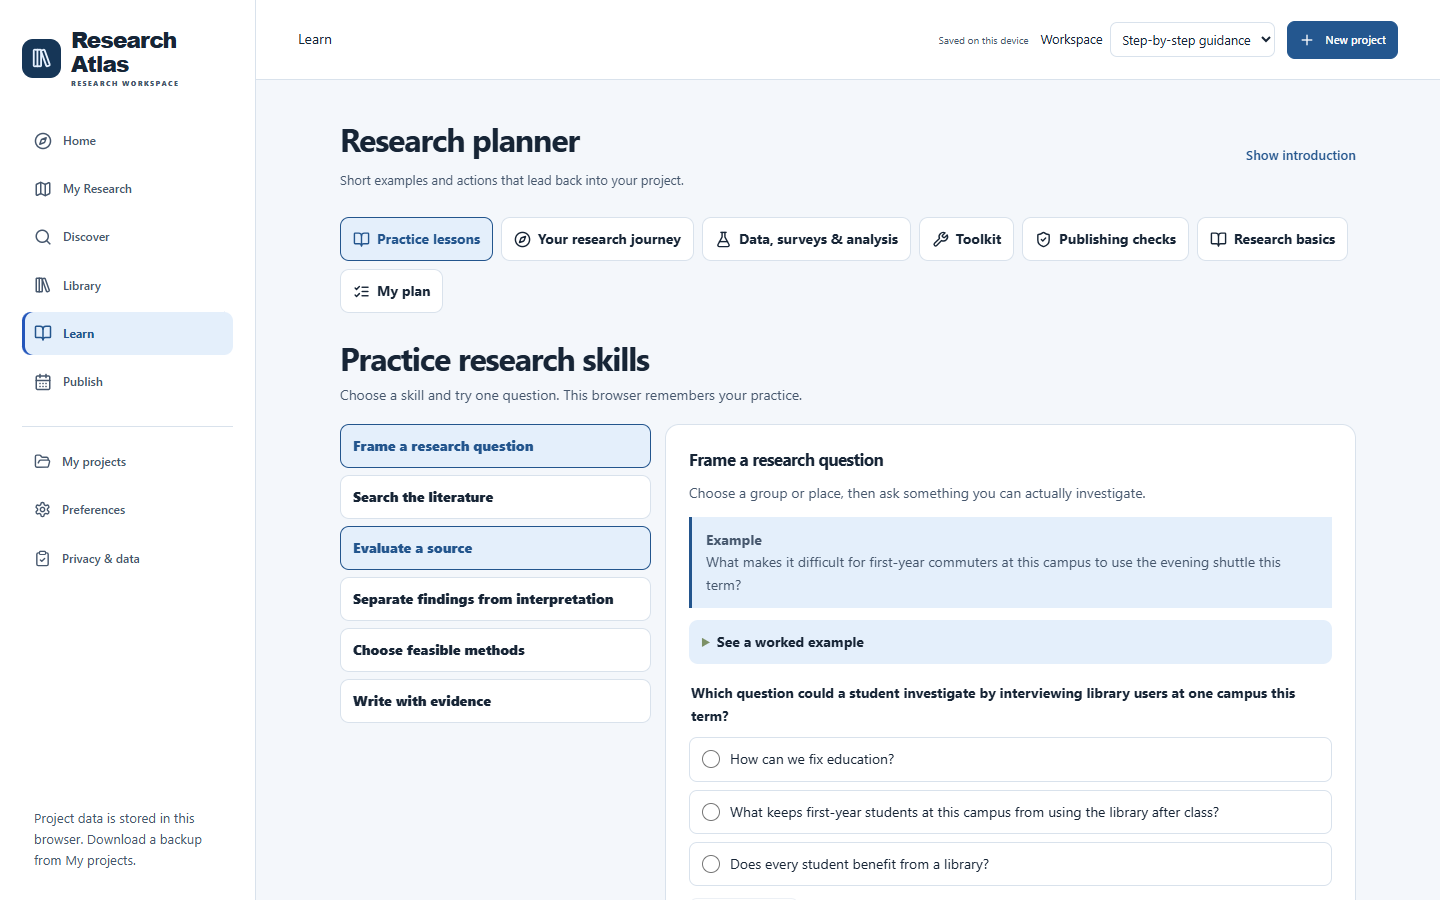
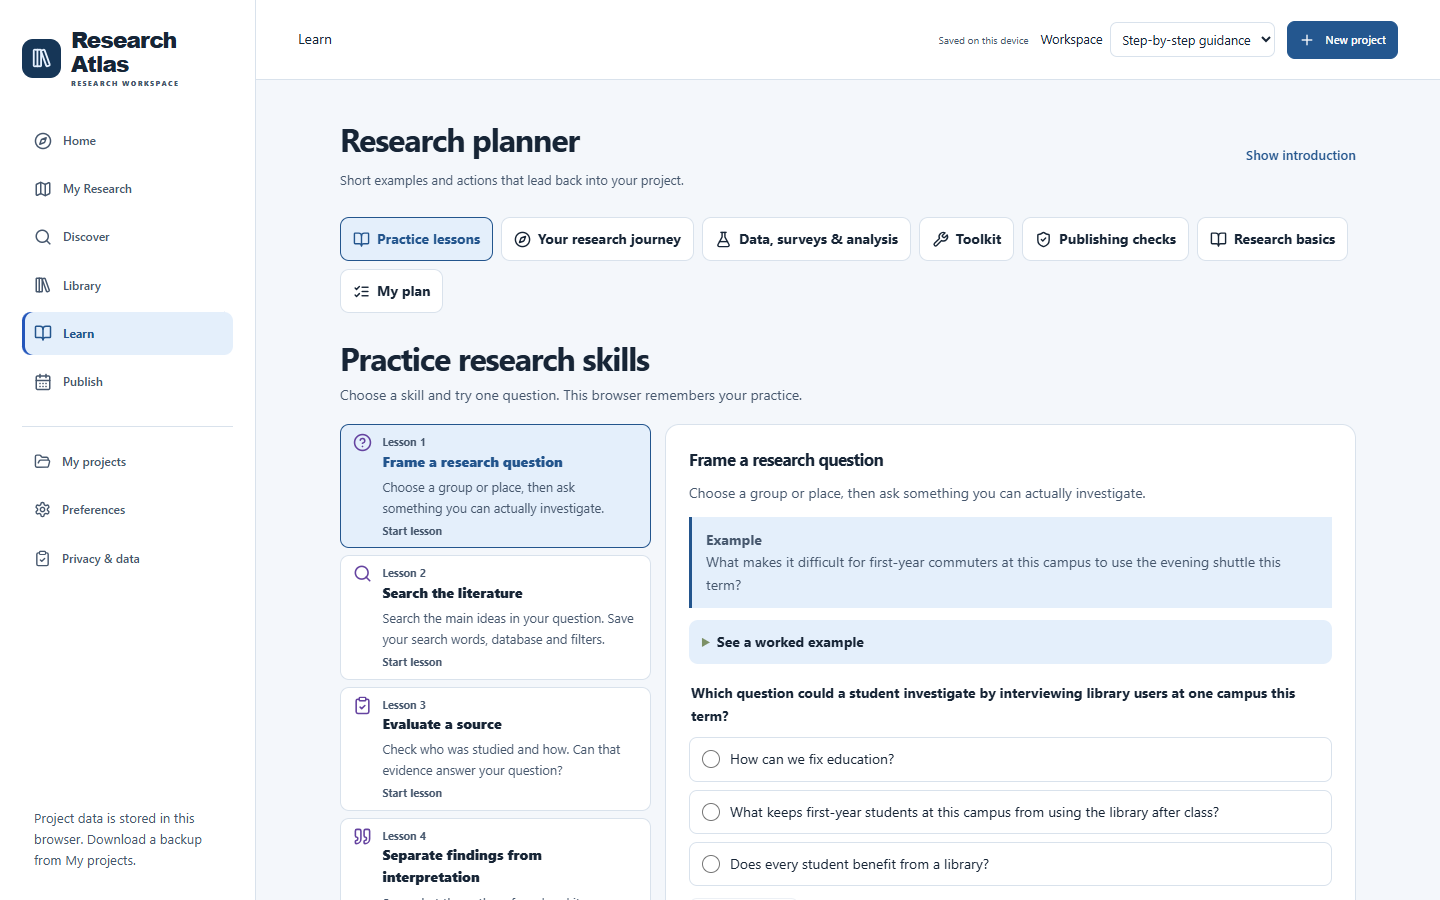
Verify responsive guidance, refine overlay interactions and document the 0.13 release candidate

Changed region(s): [[0.2188, 0.4667, 0.4688, 0.7467], [0.25, 0.7778, 0.4375, 0.9956]]

diff --git a/research-atlas/src/components/workspace/Atlas.tsx b/research-atlas/src/components/workspace/Atlas.tsx
@@ -93,6 +93,7 @@ export default function Atlas() {
   const [active, setActive] = useState('');
   const [ready, setReady] = useState(false);
   const [saveState, setSaveState] = useState('Opening local workspace…');
+  const [reviewReload, setReviewReload] = useState(false);
   const [storageConflict, setStorageConflict] = useState(false);
   const [storageOperation, setStorageOperation] = useState(false);
   const [recoveryRaw, setRecoveryRaw] = useState('');
@@ -376,6 +377,10 @@ export default function Atlas() {
 
   function removeProject(item: Project) {
     setProjectAction(undefined);
+    if (writeBlocked.current || storageOperation) {
+      setNotice('Resolve the workspace conflict before deleting a project.');
+      return;
+    }
     markDirty();
     saveDeskSourceFilters(item.id, defaultDeskSourceFilters);
     const remaining = projects.filter(record => record.id !== item.id);
@@ -415,11 +420,15 @@ export default function Atlas() {
         <button className="button small" data-tour="new-project" onClick={openNewProject} disabled={!ready}><Plus size={16} />New project</button>
       </header>
       <main id="main" ref={main} tabIndex={-1} aria-busy={storageOperation} data-layout={['guide', 'primer', 'terms', 'privacy', 'support'].includes(view) ? 'reading' : ['paper-search', 'library', 'screen', 'extract', 'writing', 'discover'].includes(view) ? 'research' : 'working'} data-interface={preferences.interfaceMode ?? 'guided'}>
-        {(storageConflict || recoveryRaw) && <section className="error" role="alert"><h2>{storageConflict ? 'Another tab saved changes' : 'Some stored records need recovery'}</h2><p>Saving is paused so this tab cannot overwrite stored work. Download the copy in this tab before loading the latest saved workspace.</p><div className="button-row"><button className="button secondary" onClick={backup}>Download this tab’s backup</button>{recoveryRaw && <button className="button secondary" onClick={() => download('research-atlas-recovery-raw.json', recoveryRaw, 'application/json')}>Download original stored data</button>}<button className="button secondary" disabled={storageOperation} onClick={() => window.location.reload()}>Reload latest saved workspace</button></div></section>}
+        {(storageConflict || recoveryRaw) && <section className="error" role="alert"><h2>{storageConflict ? 'Another tab saved changes' : 'Some stored records need recovery'}</h2><p>Saving is paused so this tab cannot overwrite stored work. Download the copy in this tab before loading the latest saved workspace.</p><div className="button-row"><button className="button secondary" onClick={backup}>Download this tab’s backup</button>{recoveryRaw && <button className="button secondary" onClick={() => download('research-atlas-recovery-raw.json', recoveryRaw, 'application/json')}>Download original stored data</button>}<button className="button secondary" disabled={storageOperation} onClick={() => setReviewReload(true)}>Reload latest saved workspace</button></div></section>}
         {ready && projects.length > 0 && (saveState === 'Local storage unavailable' || saveState.startsWith('Could not save')) && <section className="error" role="alert"><p>Changes are still available in this tab. Download a recovery copy before reloading.</p><button type="button" className="button secondary" onClick={backup}>Download recovery backup</button></section>}
         {ready && preferences.interfaceMode !== 'expert' && <ContextualGuidance key={view} openLibrary={()=>go('library')}/>}
         {notice && <div className="notice" role="status">{notice}<button className="icon-button" onClick={() => setNotice('')} aria-label="Dismiss notice"><X size={16} /></button></div>}
         {ready && !storageOperation && !storageConflict && !recoveryRaw && <WorkspaceOrientation key={preferences.interfaceMode} view={view} guided={preferences.interfaceMode !== 'expert'} existing={projects.length > 0 || loadFailed.current} openMenu={setMobile} startProject={openNewProject} explore={()=>go('primer')} papers={()=>go('paper-search')} />}
+        {reviewReload && (storageConflict || recoveryRaw) && <AtlasDialog title="Reload the saved workspace?" onClose={()=>setReviewReload(false)}>
+          <p>Reloading opens the most recently saved projects. Download a backup first to keep any edits visible only in this tab.</p>
+          <div className="button-row"><button data-initial-focus className="button secondary" onClick={()=>setReviewReload(false)}>Keep this tab open</button><button className="button secondary" onClick={backup}>Download a backup</button><button className="button" onClick={()=>window.location.reload()}>Reload saved projects</button></div>
+        </AtlasDialog>}
         {projectAction && <AtlasDialog title={projectAction.kind==='remove' ? 'Delete project?' : 'Export project'} onClose={()=>setProjectAction(undefined)}>
           <h3>{projectAction.project.title}</h3>{projectAction.kind==='remove' ? <><p>Deleting removes this project from this browser. Keep a backup first if you need a copy.</p><div className="button-row"><button data-initial-focus className="button secondary" onClick={()=>setProjectAction(undefined)}>Keep project</button><button className="button danger" onClick={()=>removeProject(projectAction.project)}>Delete project</button></div></> : <><p>Choose the planning document or source evidence table to download.</p><div className="button-row"><button className="button secondary" onClick={()=>download('research-protocol.md',protocolMarkdown(projectAction.project),'text/markdown')}>Export protocol</button><button className="button secondary" onClick={()=>download('evidence-matrix.csv',matrixCsv(projectAction.project),'text/csv')}>Export evidence</button></div></>}
         </AtlasDialog>}

diff --git a/research-atlas/src/components/discovery/DiscoverPapers.tsx b/research-atlas/src/components/discovery/DiscoverPapers.tsx
@@ -237,6 +237,7 @@ export function DiscoverPapers({ project, update, notify, initialQuery, initialR
 
 
         {requestKind === 'search' && <button type="button" className="text-button" onClick={cancelRequest}>Cancel search</button>}
+        {busy && !results && <div className="loading-paper" role="status"><strong>Retrieving papers from {provider}…</strong><i aria-hidden="true"/><i aria-hidden="true"/></div>}
         {!results && pageNotice && <p role="status">{pageNotice}</p>}
         <p className="muted">The search sends your keywords and filters to {provider}. Leave out confidential project or participant details.{provider === 'Crossref' && ' Crossref does not provide a reliable reading-access filter here; check the publisher or choose another source for open copies.'}</p>
         <External href={searchWebsiteUrl(query)}>Search on Crossref</External>
@@ -253,7 +254,7 @@ export function DiscoverPapers({ project, update, notify, initialQuery, initialR
             <span>{provider} · {openAlexSearch.pageSize} per page · up to 100 retrieved</span>
           </div>
           <div className="two-col"><label className="field"><span>Document type</span><select aria-label="Document type" value={documentType ?? ''} disabled={busy || provider === 'Crossref'} onChange={event => setDocumentType(event.target.value ? event.target.value as SearchOptions['documentType'] : undefined)}>{searchFilterChoices[provider].documents.map(([value, label]) => <option key={value} value={value}>{label}</option>)}</select></label><label className="field"><span>Source collection</span><select aria-label="Source collection" value={sourceType ?? ''} disabled={busy || provider === 'Crossref'} onChange={event => setSourceType(event.target.value ? event.target.value as SearchOptions['sourceType'] : undefined)}>{searchFilterChoices[provider].sources.map(([value, label]) => <option key={value} value={value}>{label}</option>)}</select></label></div><p className="muted">{searchFilterChoices[provider].note}</p><button type="button" className="button" onClick={()=>setTool(undefined)}>Done</button></>}
-          
+
           {tool==='databases' && <><p>Open this query on another website. These are direct search links, not imported results. Scholar and ResearchGate manage their own access and may ask you to sign in or complete a browser check. Import a downloaded RIS or BibTeX reference through Library to use it in your project.</p><div className="button-row">{scholarlySearchLinks(query).map(link => <External key={link.name} href={link.url}>{`Search ${link.name}`}</External>)}</div><a href="#library">Import references into your Library</a></>}
         </AtlasDialog>}
       </section>

diff --git a/research-atlas/tests/e2e/orientation-overlays.spec.ts b/research-atlas/tests/e2e/orientation-overlays.spec.ts
@@ -1,6 +1,32 @@
 import { expect, test } from '@playwright/test';
 
 test.use({storageState:{cookies:[],origins:[]}});
+test('each tour stop can be skipped and replayed without changing project data', async ({page})=>{
+  await page.goto('/#preferences');
+  for(let index=0;index<7;index++){
+    await page.getByRole('button',{name:'Replay workspace tour'}).click();
+    const coach=page.locator('.tour-coach');
+    for(let n=0;n<index;n++) await coach.getByRole('button',{name:'Next',exact:true}).click();
+    await coach.getByRole('button',{name:'Skip tour'}).press('Enter');
+    await expect(page.locator('.atlas-tour')).toHaveCount(0);
+  }
+  await page.goto('/#projects');
+  await expect(page.getByRole('heading',{name:'My projects',exact:true})).toBeVisible();
+  await expect(page.getByRole('button',{name:'Delete project',exact:true})).toHaveCount(0);
+});
+test('project dialog preserves an unfinished draft and its opener',async({page})=>{
+  await page.goto('/#projects');
+  const start=page.getByRole('button',{name:'New project',exact:true});
+  await start.click();
+  const title=page.getByRole('dialog').getByLabel('Working title');
+  await title.fill('Synthetic sleep research');
+  await page.keyboard.press('Escape');
+  await expect(start).toBeFocused();
+  await start.click();
+  await expect(title).toHaveValue('Synthetic sleep research');
+  await page.getByRole('button',{name:'Close new project'}).click();
+  await expect(page.getByRole('button',{name:'Delete project',exact:true})).toHaveCount(0);
+});
 test('a new visitor can skip, revisit, or explore without creating a project', async ({page})=>{
   await page.goto('/');
   const welcome=page.getByRole('dialog',{name:'Welcome to Research Atlas'});

diff --git a/research-atlas/src/app/interface.css b/research-atlas/src/app/interface.css
@@ -79,4 +79,13 @@ body:has(dialog[open]){overflow:hidden}
 .search-tool-anchor{position:relative}
 .help-popover{position:absolute;z-index:12;background:var(--surface);color:var(--ink);border:1px solid var(--line);box-shadow:var(--overlay-shadow);padding:1rem;border-radius:.65rem;width:min(100%,28rem);max-height:50dvh;overflow-y:auto}
 .help-popover header{display:flex;align-items:center;justify-content:space-between}
+.loading-paper{display:grid;gap:.5rem;margin:1rem 0;background:var(--surface-soft);padding:1rem;border-radius:.5rem;font-size:.85rem}
+.loading-paper i{height:.4rem;width:80%;background:var(--line);border-radius:.25rem}
+.loading-paper i:last-child{width:55%}
+.lesson-contrast{display:grid;grid-template-columns:repeat(auto-fit,minmax(min(100%,12rem),1fr));gap:.75rem}
+.lesson-contrast div{padding:.8rem;background:var(--surface-soft);border-inline-start:3px solid var(--evaluate)}
+.lesson-contrast div+div{border-color:var(--learn)}
+.lesson-contrast dt,.venue-facts dt{font-weight:700}.lesson-contrast dd,.venue-facts dd{margin:.25rem 0 .65rem;color:var(--muted)}
+.journey-shell .desk-source-list button[aria-pressed=true]{border-inline-start:4px solid var(--evaluate)}
+@media(max-width:650px){.journey-shell .search-panel .search-settings{grid-template-columns:minmax(0,1fr) minmax(0,1fr)}.journey-shell .search-settings select{padding-inline:.35rem}}
 @media(max-width:500px){.help-popover{position:relative}}

diff --git a/research-atlas/src/components/learning/PracticeLessonExercise.tsx b/research-atlas/src/components/learning/PracticeLessonExercise.tsx
@@ -32,6 +32,14 @@ export function PracticeLessonExercise({ lesson, progress, onProgress, openSecti
     <p className="practice-scenario"><strong>Example</strong> {lesson.examples[0].scenario}</p>
     <details className="planner-example">
       <summary>See a worked example</summary>
+      {lesson.id === 'question' && <dl className="lesson-contrast">
+        <div><dt>Broad interest</dt><dd>Sleep and student life</dd></div>
+        <div><dt>Focused question</dt><dd>Among first-year commuters on one campus, how does reported sleep duration vary between class days and weekends?</dd></div>
+      </dl>}
+      {lesson.id === 'interpret' && <dl className="lesson-contrast">
+        <div><dt>Source finding · fictional example</dt><dd>Six of twelve interviewees mentioned a late commute. Locator: Table 2.</dd></div>
+        <div><dt>Personal interpretation</dt><dd>Evening transport may affect access to study space. Interview students on other routes to explore that possibility.</dd></div>
+      </dl>}
       <div className="practice-examples">
         {lesson.examples.map((example, index) => <div key={example.discipline}>
           <h4>{example.discipline}</h4>

diff --git a/research-atlas/docs/0.13/RELEASE.md b/research-atlas/docs/0.13/RELEASE.md
@@ -15,7 +15,21 @@ The working branch starts at b0e1cef, including the Android launcher fix. The pu
 ## Implementation checklist
 
 - [x] Capture the public baseline and measure the original bundle.
-- [ ] Implement and exercise visual foundations and onboarding.
-- [ ] Redesign Discover, beginner exploration, Learn and connected workspaces.
+- [x] Implement and exercise visual foundations and onboarding.
+- [x] Redesign Discover, beginner exploration, Learn and connected workspaces.
 - [ ] Complete responsive, accessibility, recovery, user-journey and device checks.
 - [ ] Record the release checks, comparison screenshots and deployment identity.
+
+## Results
+
+A synthetic undergraduate project investigated sleep quality and academic performance. A scripted Brave session took 61 seconds on this laptop. It used a fictional OpenAlex record to check reproducible source screening, locators, interpretation, citations and DOCX contents. Europe PMC returned two pages of 20 distinct real results. The user flow saved a real source and recorded a decision. Crossref also returned real titles. An encrypted backup opened for verification and restored the complete project in a fresh profile. Starting a project from beginner exploration retains its sources. Discover also offers a direct path to create a project from a paper.
+
+The [desktop and mobile baseline](before/) and [redesigned interface](after/) show the implemented application. [Desktop spotlight](after/spotlight-1440.png) · [Mobile spotlight](after/spotlight-390.png) · [Mobile filters](after/filters-390.png) · [New project](after/new-project-1440.png)
+
+Local production measurements used the same Brave executable, a loopback server, five fresh profiles per build and blocked service workers. The [raw results](performance-and-layout.json) include cold Discover readiness and compressed asset sizes. The measurements describe this laptop. They do not predict load times on a mobile connection.
+
+All seven spotlight targets and the filter drawer were exercised at 320, 360, 390, 768, 1280 and 1440 CSS pixels. These checks detected no horizontal overflow or browser errors. No participants were recruited. The [short usability script](USABILITY.md) records assistance, time and navigation errors for future sessions.
+
+The website delivers this interface to the existing Android wrapper. ADB listed no physical phone during the 0.13.0 check. The verified OnePlus installation and native download/restore results belong to 0.12.0. Android signing and origin association are separate owner decisions. Scholarly providers can still rate-limit or time out; existing retry and recovery behavior is preserved.
+
+The authoritative check and deployment records are linked from [the release pull request](https://github.com/rishadamin001/research-tracker-app/pull/12). After publication, the public page exposes its full Git commit in the `atlas-build-commit` metadata.

diff --git a/research-atlas/ARCHITECTURE.md b/research-atlas/ARCHITECTURE.md
@@ -1,5 +1,15 @@
 # Architecture
 
+## Interface and onboarding in 0.13
+
+The workspace shell owns navigation. The orientation controller highlights semantic `data-tour` targets and follows layout changes. The spotlight is nonmodal, so a learner can operate the highlighted control. Dialogs use the browser's modal behavior for actions that need a decision. Local tutorial keys are independent of project storage, encrypted backups and practice progress.
+
+Shared tokens, touch sizes and reduced-motion rules live in `src/app/interface.css`. Discover owns the existing provider and pagination state. Its dialogs present filters, external links, paper details and search activity. Search tips open in a nonmodal help panel.
+
+Using React and Lucide already shipped with the application keeps the tour offline and introduces no additional runtime license, remote script or stylesheet. Driver.js offers configurable popovers and targets, but Atlas would still need its own project-state and mobile-navigation integration. [Driver configuration](https://driverjs.com/docs/configuration) · [Native dialogs](https://developer.mozilla.org/en-US/docs/Web/HTML/Reference/Elements/dialog)
+
+The filter chips take inspiration from Linear's visible search criteria. Keeping paper metadata, notes and citations distinct follows a familiar reference-manager workflow. [Linear filters](https://linear.app/docs/filters) · [Zotero basics](https://www.zotero.org/support/quick_start_guide)
+
 ## Source layout
 
 The active web application, optional gateway and Android wrapper all live in the repository's `research-atlas/` directory. The root `client/` and `server/` directories contain the earlier app. The [Android wrapper](android/README.md) launches the existing website using the device's browser. Study data belongs to the browser profile and origin. The [hosting and accounts proposal](docs/HOSTING-AND-ACCOUNTS.md) describes future options.

diff --git a/research-atlas/CHANGELOG.md b/research-atlas/CHANGELOG.md
@@ -1,5 +1,9 @@
 # Changelog
 
+## 0.13.0
+
+The optional welcome and seven-stop spotlight highlight real workspace controls. Discover has visible filters and chips, search tips, paper previews, external database links and a search activity panel. Beginner exploration explains paper metadata. The six learning exercises retain their saved progress. The dashboard connects six stages of research, and project deletion and backup imports use explicit confirmation.
+
 ## 0.12.0
 
 Beginners can pick an example, explore papers immediately, or take a nine-stop tour that remembers their place on this device. All six practice lessons keep their existing progress and offer more detail on demand.

diff --git a/research-atlas/TESTING.md b/research-atlas/TESTING.md
@@ -1,5 +1,9 @@
 # Verification
 
+## 0.13.0 interface
+
+The [release record](docs/0.13/RELEASE.md) links the interface captures, local production measurements and university usability script. Existing browser regression cases use a returning visitor who previously skipped orientation. Dedicated first-visit cases start in an empty browser profile. They cover modal and nonmodal focus, replay and resume, missing targets, filter persistence, keyboard controls and reduced motion.
+
 ## Release checks
 
 ### 0.12.0 desktop candidate
